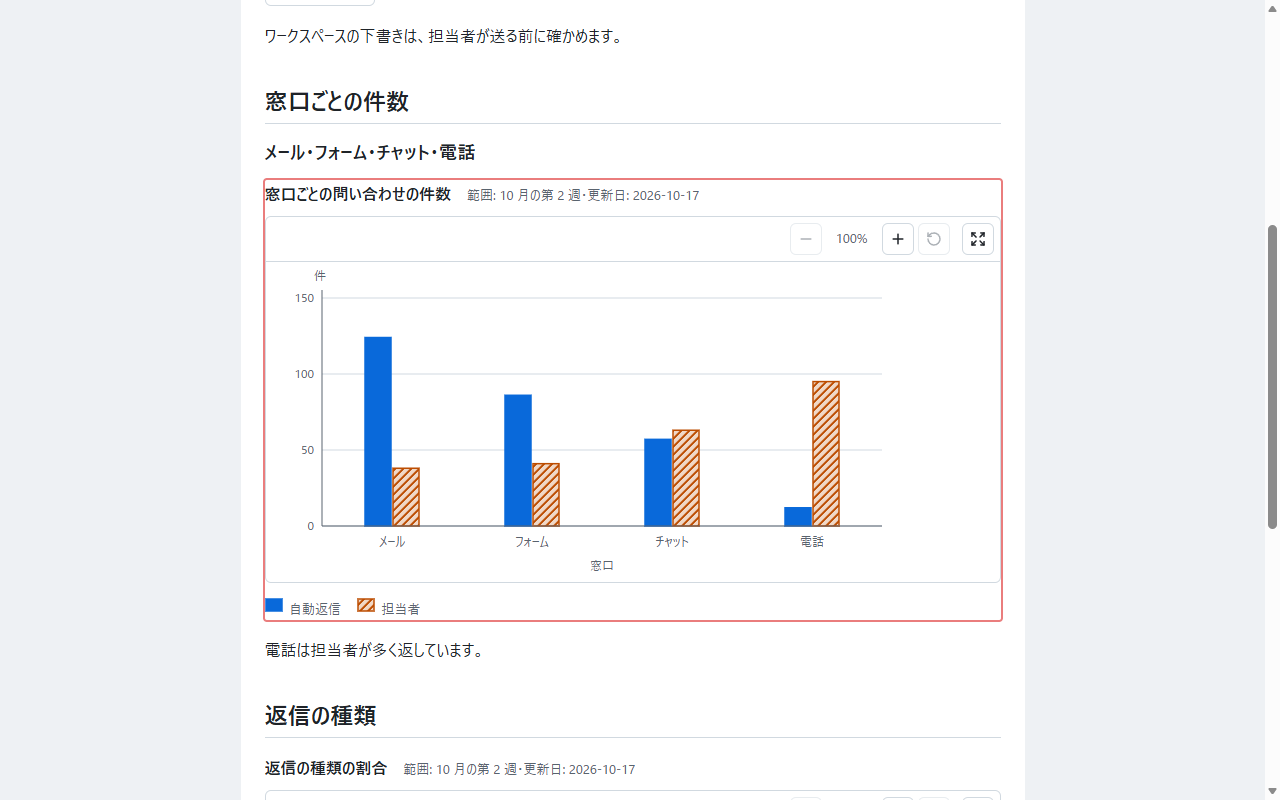
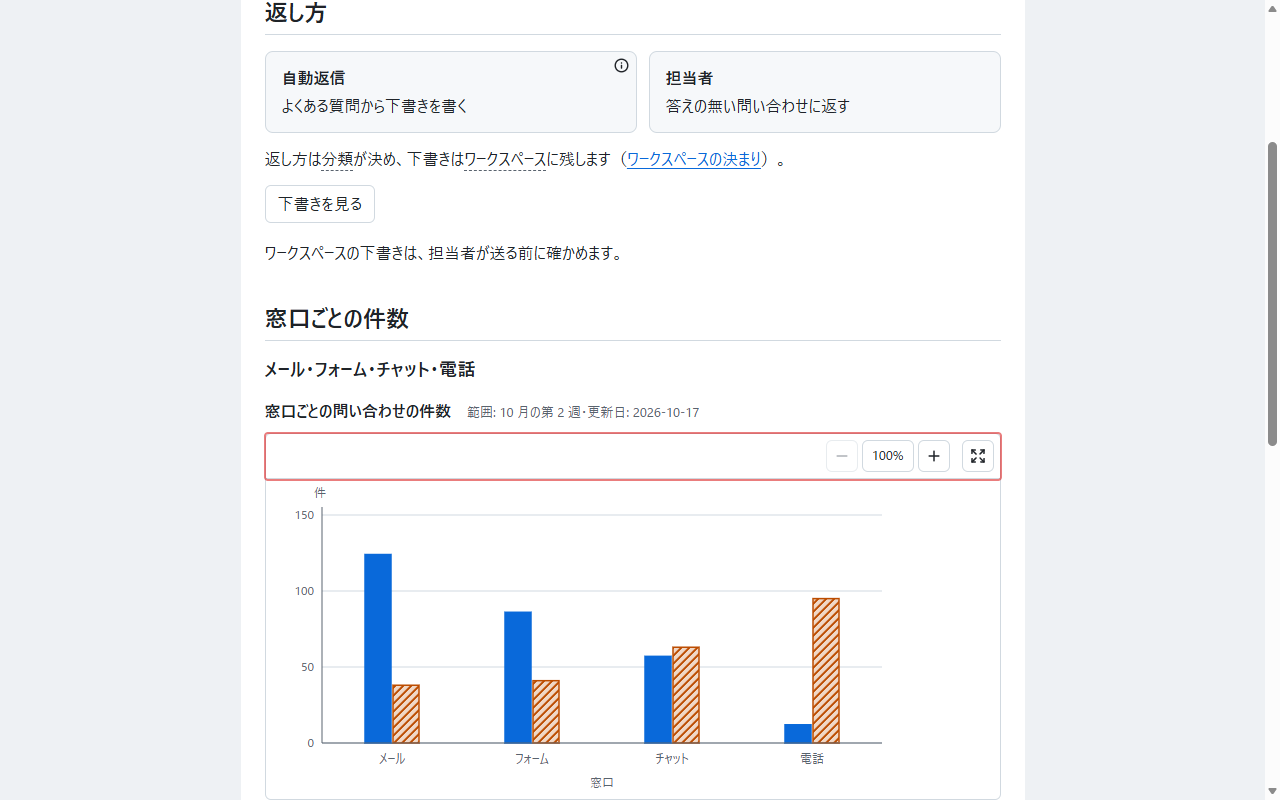
mock: 用語と線のポインターの形を既定にし、図の枠の戻すのボタンを倍率のボタンにまとめる

diff --git a/dev/mock/refs/42/assets/diagram.js b/dev/mock/refs/42/assets/diagram.js
@@ -18,7 +18,6 @@
     frame: '<rect width="20" height="8" x="2" y="2" rx="2"/><rect width="20" height="8" x="2" y="14" rx="2"/><path d="M6 6h.01"/><path d="M6 18h.01"/>',
     zoomIn: '<path d="M5 12h14"/><path d="M12 5v14"/>',
     zoomOut: '<path d="M5 12h14"/>',
-    fit: '<path d="M3 12a9 9 0 1 0 9-9 9.75 9.75 0 0 0-6.74 2.74L3 8"/><path d="M3 3v5h5"/>',
     fullscreen: '<path d="m15 15 6 6"/><path d="m15 9 6-6"/><path d="M21 16v5h-5"/><path d="M21 8V3h-5"/><path d="M3 16v5h5"/><path d="m3 21 6-6"/><path d="M3 8V3h5"/><path d="M9 9 3 3"/>',
     close: '<path d="M18 6 6 18"/><path d="m6 6 12 12"/>',
     left: '<path d="m15 18-6-6 6-6"/>',
@@ -498,7 +497,7 @@
         ${tool("left", "左へ動かす", "left")}${tool("up", "上へ動かす", "up")}${tool("down", "下へ動かす", "down")}${tool("right", "右へ動かす", "right")}
       </div>
       <div class="mdmark-diagram-tools-group" data-group="zoom">
-        ${tool("out", "縮小", "zoomOut")}<output class="mdmark-diagram-zoom" aria-label="倍率">100%</output>${tool("in", "拡大", "zoomIn")}${tool("fit", "全体が収まる倍率に戻す", "fit")}
+        ${tool("out", "縮小", "zoomOut")}<button class="mdmark-diagram-tool mdmark-diagram-zoom" type="button" data-tool="fit">100%</button>${tool("in", "拡大", "zoomIn")}
       </div>
       <div class="mdmark-diagram-tools-group" data-group="screen">
         ${modal ? tool("close", "全画面を閉じる", "close") : tool("fullscreen", "全画面で開く", "fullscreen")}
@@ -591,11 +590,11 @@
       sizer.style.width = `${state.width * scale}px`;
       sizer.style.height = `${state.height * scale}px`;
       stickHeads();
-      zoomText.value = `${Math.round(scale * 100)}%`;
-      zoomText.textContent = zoomText.value;
+      // 今の倍率のボタン: 倍率を出し、押すと開いたときの倍率と位置に戻ることを読み上げの名前に書く
+      zoomText.textContent = `${Math.round(scale * 100)}%`;
+      zoomText.setAttribute("aria-label", `倍率 ${zoomText.textContent}。押すと開いたときの倍率と位置に戻す`);
       button("out").disabled = scale <= state.fit + ZOOM_EPSILON;
       button("in").disabled = scale >= ZOOM_MAX - ZOOM_EPSILON;
-      button("fit").disabled = state.atFit;
       // 図の全体が見えている間は、移動のボタンは何も動かさないので出さない
       panGroup.hidden = state.width * scale <= viewport.clientWidth + 1 && state.height * scale <= viewport.clientHeight + 1;
       // 押したボタンが押せなくなった・消えたときは、フォーカスを表示枠へ移して失わせない
@@ -631,7 +630,6 @@
       viewport.scrollLeft += dx;
       viewport.scrollTop += dy;
       state.atFit = false;
-      button("fit").disabled = false;
     };
 
     const actions = {
@@ -669,7 +667,6 @@
       viewport.scrollTop = drag.top - (event.clientY - drag.y);
       if (event.clientX !== drag.x || event.clientY !== drag.y) {
         state.atFit = false;
-        button("fit").disabled = false;
       }
     });
     const endDrag = () => {
@@ -683,7 +680,6 @@
     viewport.addEventListener("scroll", () => {
       if (viewport.scrollLeft || viewport.scrollTop) {
         state.atFit = false;
-        button("fit").disabled = false;
       }
     });
 

diff --git a/dev/mock/refs/42/assets/diagram.css b/dev/mock/refs/42/assets/diagram.css
@@ -150,10 +150,12 @@
       }
     }
 
-    /* 今の倍率: 縮小と拡大のボタンの間に、桁を揃えて出す */
-    .mdmark-diagram-zoom {
+    /* 今の倍率のボタン: 縮小と拡大のボタンの間に、桁を揃えて今の倍率を出す。押すと開いたときの倍率と位置に戻す */
+    .mdmark-diagram-tool.mdmark-diagram-zoom {
+      width: auto;
       min-width: 3.25rem;
-      color: var(--mdmark-color-muted);
+      padding: 0 0.375rem;
+      font: inherit;
       font-size: 0.8125rem;
       font-variant-numeric: tabular-nums;
       text-align: center;
@@ -377,7 +379,6 @@
     /* 箱の中の用語: 本文の用語と同じ破線の下線（.mdmark-term）。箱の小さな文字に合わせて下線を近づける */
     .mdmark-diagram-node .mdmark-term {
       text-underline-offset: 0.25em;
-      cursor: help;
     }
 
     /* 線の層: 箱の上に重ね、線そのものは押せない（ツールチップ用の太い透明の線だけが拾う） */
@@ -467,7 +468,6 @@
       stroke: transparent;
       stroke-width: 14;
       pointer-events: stroke;
-      cursor: help;
     }
 
     /* 線のラベル（入力の要約）: 線の上に地の色の札で置く */
@@ -489,7 +489,6 @@
         text-decoration: underline dashed var(--mdmark-color-term-underline);
         text-decoration-thickness: 1px;
         text-underline-offset: 0.25em;
-        cursor: help;
       }
 
       &:focus-visible {

diff --git a/dev/mock/components/diagram-frame/index.html b/dev/mock/components/diagram-frame/index.html
@@ -40,7 +40,7 @@
     <div class="catalog">
       <h1 class="catalog-title">図の枠（題・凡例・拡大と縮小・移動）</h1>
 
-      <!-- 開いたとき: 全体が収まる倍率。図の全体が見えている間は移動のボタンを出さない。縮小と戻すは押しても変わらないので押せない -->
+      <!-- 開いたとき: 全体が収まる倍率。図の全体が見えている間は移動のボタンを出さない。縮小は押しても変わらないので押せない。拡大と縮小の間の倍率の表示はボタンで、押すと開いたときの倍率と位置に戻す -->
       <section aria-labelledby="state-fit">
         <h2 class="catalog-label" id="state-fit">開いたとき（全体が収まる倍率。移動のボタンは出さない）</h2>
         <article class="mdmark">

diff --git a/dev/mock/refs/27/assets/glossary.css b/dev/mock/refs/27/assets/glossary.css
@@ -24,7 +24,6 @@
       text-decoration: underline dashed var(--mdmark-color-term-underline);
       text-decoration-thickness: 1px;
       text-underline-offset: 0.3em;
-      cursor: help;
 
       &:focus-visible {
         outline: 2px solid var(--mdmark-color-link);

diff --git a/dev/mock/components/index.md b/dev/mock/components/index.md
@@ -8,7 +8,7 @@
 | [badge](./badge/index.html) | 頭に `badge:` を付けた行内のコードを描いた札 |
 | [callout](./callout/index.html) | 種類ごとの題・色・アイコンを持つ注意書きの枠と、閉じた注意書き |
 | [chart](./chart/index.html) | 系列を色と線の模様・点の印の組で分けたグラフ（折れ線）と、色と塗りの模様の組で分けた棒・円、点の印で分けた散布図 |
-| [diagram-frame](./diagram-frame/index.html) | 図の題・範囲・更新日・凡例と、右上の拡大・縮小・戻すのボタンと移動のボタン |
+| [diagram-frame](./diagram-frame/index.html) | 図の題・範囲・更新日・凡例と、右上の拡大・縮小のボタン、押すと戻る倍率のボタンと移動のボタン |
 | [diagram-tooltip](./diagram-tooltip/index.html) | 図の矢印の詳細・箱の入力・処理・出力・箱の hint・箱の中の用語のツールチップと、ヒントを外した図 |
 | [embedded-html](./embedded-html/index.html) | 印の範囲のコードブロックの HTML を本文に溶け込ませて描いた場所と、チャートを含む・列より広い・機能がオフ・書き方の警告の場面 |
 | [doc-list](./doc-list/index.html) | まとめた HTML の文書の一覧（フォルダごとに 1 段の見出しにパスを書き、開いている文書を示す） |
